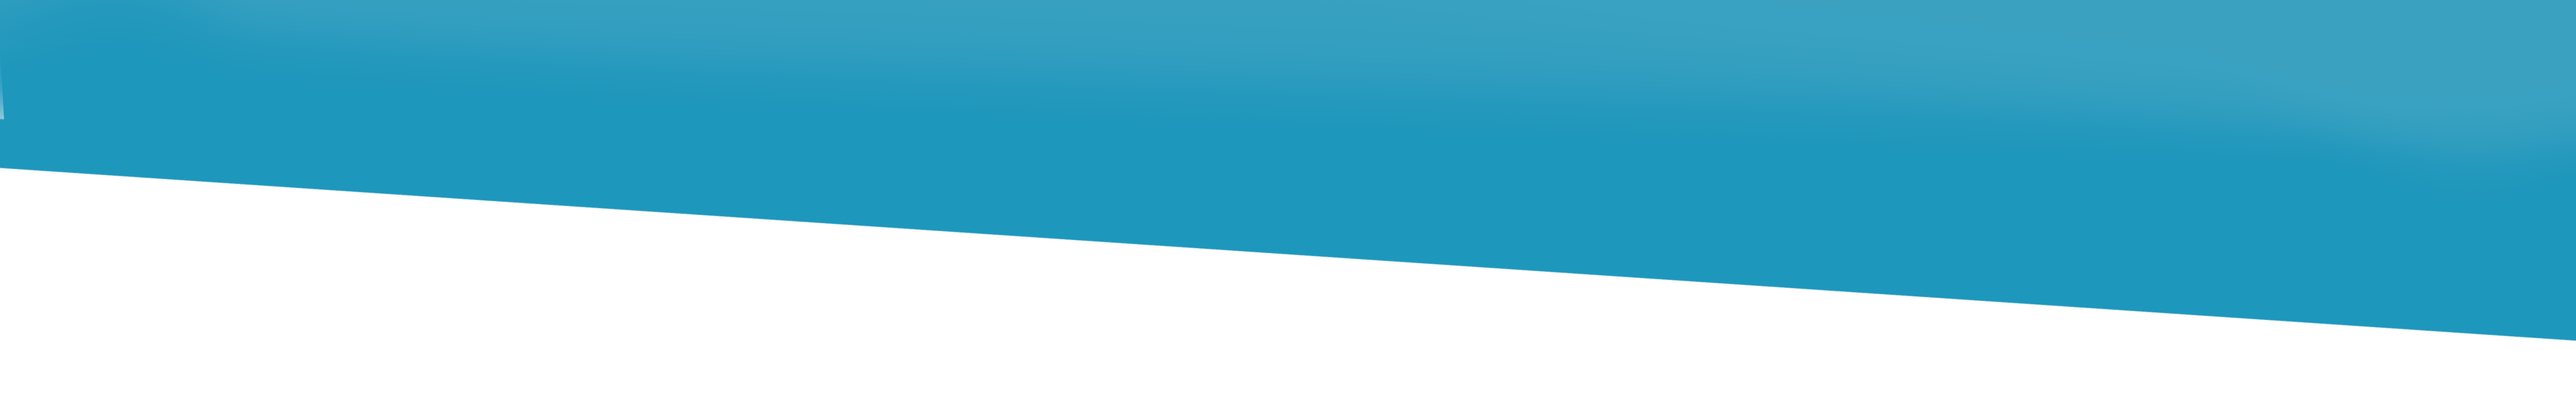
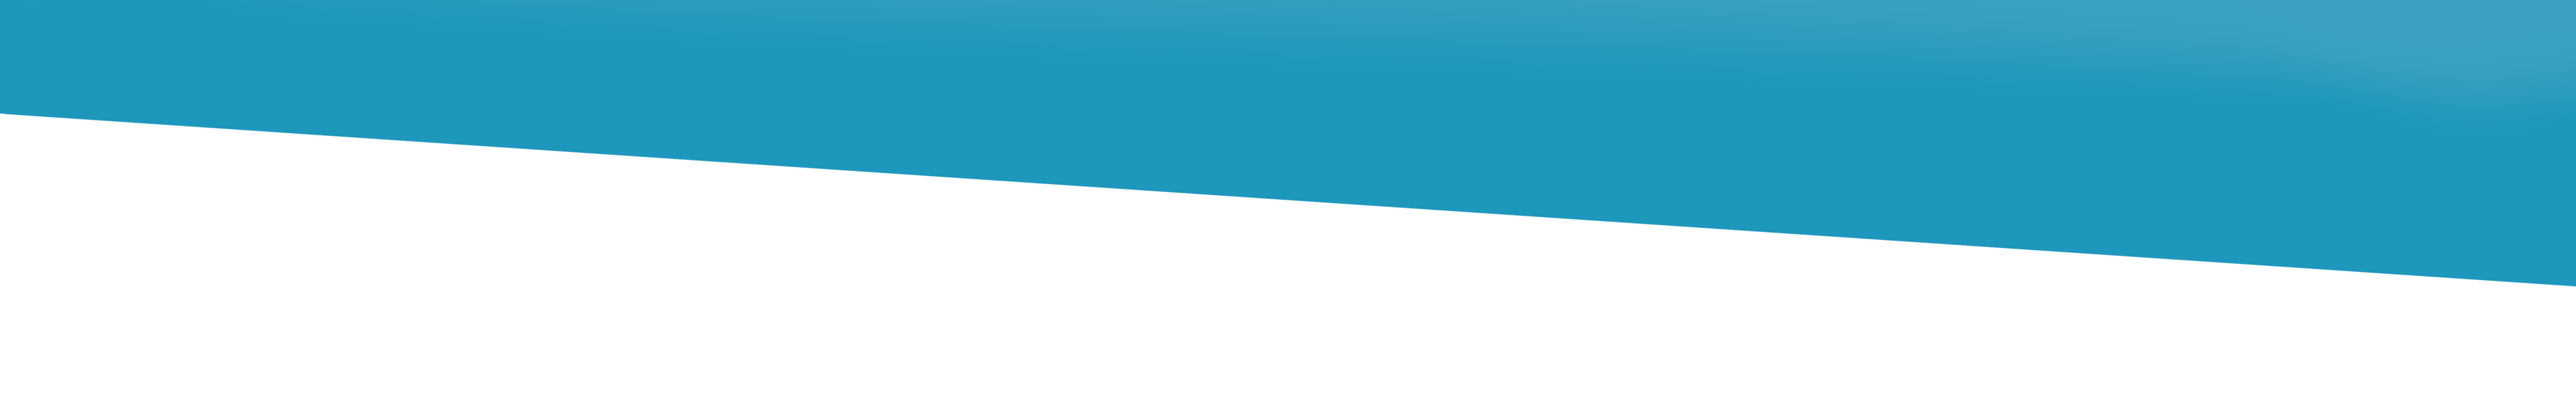
work more on media queries - get card component down below

Changed region(s): [[0.0, 0.25, 1.0, 0.8438]]

diff --git a/src/views/HomeView.vue b/src/views/HomeView.vue
@@ -11,6 +11,7 @@ Hr line
 h4
 2 buttons -->
 
+
 <div class="bgImg container">
   <h2>Tech Support Brought to you by</h2>
   <h1 class="brandTitle">Brand name Here</h1>
@@ -22,6 +23,7 @@ h4
   <button class="galleryBtn">Gallery </button>  
  
 </div>
+
 
 
 
@@ -60,7 +62,21 @@ h4
 
 <style scoped>
 /* Testing CSS  */
+.flex-container {
+  display: flex;
+  flex-direction: row;
+  background: url("src/assets/images/backgroundTransparent.png");
+  height: 70vh;
+}
 
+.flex-container > div {
+  background-color: #f1f1f1;
+  width: 100px;
+  margin: 10px;
+  text-align: center;
+  line-height: 75px;
+  font-size: 30px;
+}
 
 .cardText {
   text-align: left;
@@ -213,6 +229,10 @@ h1 {
 .flexItem {
 
 }
+
+a {
+  width: 20%;
+}
 /* ------ Buttons --------  */
 button {
   margin-left: 1rem;
@@ -284,21 +304,59 @@ button {
 
 
 @media (max-width: 1024px) {
+
+
 .bgImg {
-  background-image: url("src/assets/images/backgroundTransparentMedia.png");
+  background-image: url("src/assets/images/backgroundTransparentMediaOne.png");
   width: 100%;
-  height: 80vh;
+  height: 35vh;
 }
 
 .homeImg {
-/* display: flex;
-flex-direction: column;
-margin: auto; */
-
+/* float: right;
+width: 25rem;
+position: relative;
+top: -8rem;*/
+width: 20rem;
+} 
+h1 {
+  font-size: 25px;
 }
 
 h2 {
-  /* font-size: 1px; */
+font-size: 15px;
+}
+
+.cardName {
+  font-size: 25px;
+  width: 100%;
+}
+
+.cardText {
+  font-size: 14px;
+}
+
+a {
+  width: 10%;
+}
+.madeBtn {
+  font-size: 15px;
+}
+.femaleAvatar {
+  width: 5rem;
+}
+
+.meetTitle {
+  font-size: 22px;
+  width: 100%;
+}
+
+.slogan {
+  font-size: 15px;
+}
+
+.learnBtn .galleryBtn {
+  font-size: 12px;
 }
 
 
